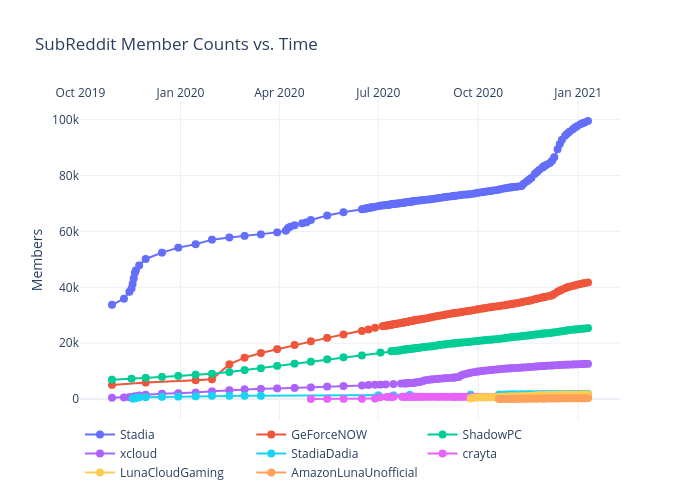
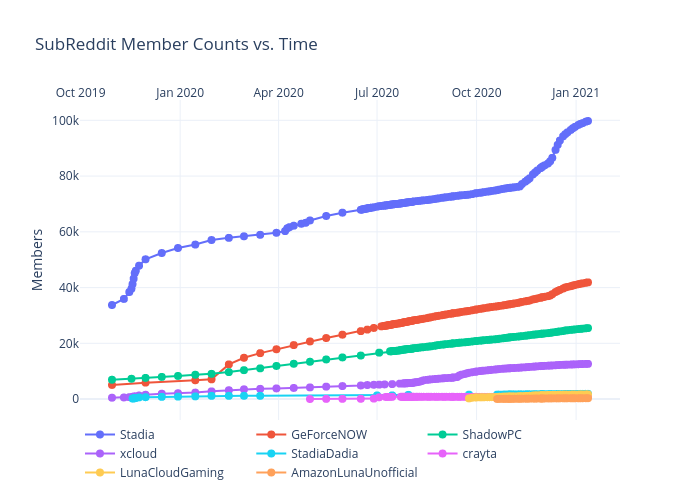
Add files via upload

diff --git a/reddit/figure.js b/reddit/figure.js
@@ -310,7 +310,8 @@ var figure = {
                 "98331",
                 "98723",
                 "98993",
-                "99514"
+                "99514",
+                "99759"
             ],
             "marker": {
                 "size": 8
@@ -629,7 +630,8 @@ var figure = {
                 "41203",
                 "41385",
                 "41516",
-                "41735"
+                "41735",
+                "41871"
             ],
             "marker": {
                 "size": 8
@@ -948,7 +950,8 @@ var figure = {
                 "25124",
                 "25201",
                 "25255",
-                "25394"
+                "25394",
+                "25475"
             ],
             "marker": {
                 "size": 8
@@ -1267,7 +1270,8 @@ var figure = {
                 "12505",
                 "12549",
                 "12577",
-                "12618"
+                "12618",
+                "12635"
             ],
             "marker": {
                 "size": 8
@@ -1586,7 +1590,8 @@ var figure = {
                 "1872",
                 "1876",
                 "1878",
-                "1885"
+                "1885",
+                "1884"
             ],
             "marker": {
                 "size": 8
@@ -1905,6 +1910,7 @@ var figure = {
                 "816",
                 "817",
                 "818",
+                "822",
                 "822"
             ],
             "marker": {
@@ -2224,7 +2230,8 @@ var figure = {
                 "1631",
                 "1641",
                 "1653",
-                "1681"
+                "1681",
+                "1691"
             ],
             "marker": {
                 "size": 8
@@ -2543,7 +2550,8 @@ var figure = {
                 "296",
                 "300",
                 "306",
-                "313"
+                "313",
+                "319"
             ],
             "marker": {
                 "size": 8
@@ -2561,8 +2569,8 @@ var figure = {
             "side": "top",
             "type": "date",
             "range": [
-                "2019-10-02 22:02:54.8165",
-                "2021-02-06 01:57:05.1835"
+                "2019-10-02 19:04:50.6832",
+                "2021-02-08 04:55:09.3168"
             ],
             "title": {
                 "text": ""
@@ -2572,8 +2580,8 @@ var figure = {
         "yaxis": {
             "type": "linear",
             "range": [
-                -7085.061762165276,
-                106632.06176216528
+                -7102.591995393033,
+                106894.59199539303
             ],
             "title": {
                 "text": "Members"
